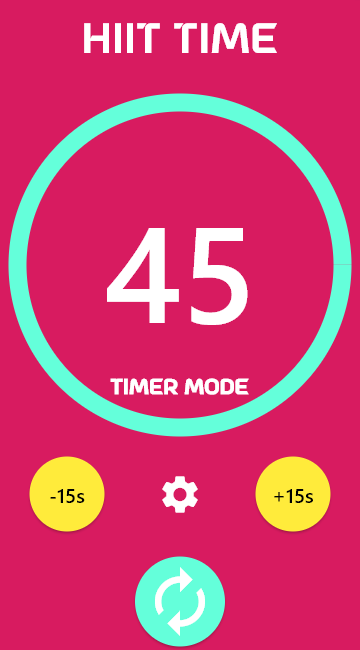
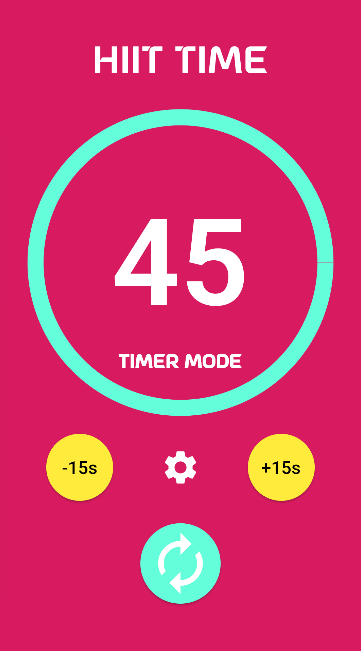
Updated Theme Previews | Bubblegum light lightened

Changed region(s): [[0.0, 0.0308, 0.9778, 1.0]]

diff --git a/lib/Config/settings.dart b/lib/Config/settings.dart
@@ -298,7 +298,7 @@ String getThemeFromProductId(String productId) {
 Map<String, bool> themesPurchasedMapDefault = {
   'Default': true,
   'Bubblegum': false,
-  'Pumpkin': false,
+  'Pumpkin': false, // TODO Disable after testing
 };
 Map<String, bool> themesPurchasedMap = themesPurchasedMapDefault;
 var availableProducts = [];
@@ -364,9 +364,11 @@ void setupAppTheme(String theme) {
 
       // Light mode
       primaryColorLightMode = Colors.black;
-      secondaryColorLightMode = Colors.pink.shade200;
-      primaryAccentColorLightMode = Colors.teal;
-      secondaryAccentColorLightMode = Colors.yellow;
+      // secondaryColorLightMode = Colors.pink.shade200;
+      // primaryAccentColorLightMode = Colors.teal;
+      secondaryColorLightMode = Colors.pink.shade100;
+      primaryAccentColorLightMode = Colors.teal.shade300;
+      secondaryAccentColorLightMode = Colors.yellow.shade400;
       runningClockColorLightMode = secondaryAccentColorLightMode;
       break;
 

diff --git a/lib/main.dart b/lib/main.dart
@@ -46,6 +46,7 @@ void main() async {
           double returnedAppVolume = double.parse(snapshot.data!['appVolume']);
 
           return MaterialApp(
+            debugShowCheckedModeBanner: false,
             home: MyApp(
               audioPlayer: audioPlayer,
               notifications: awesomeNotifications,
